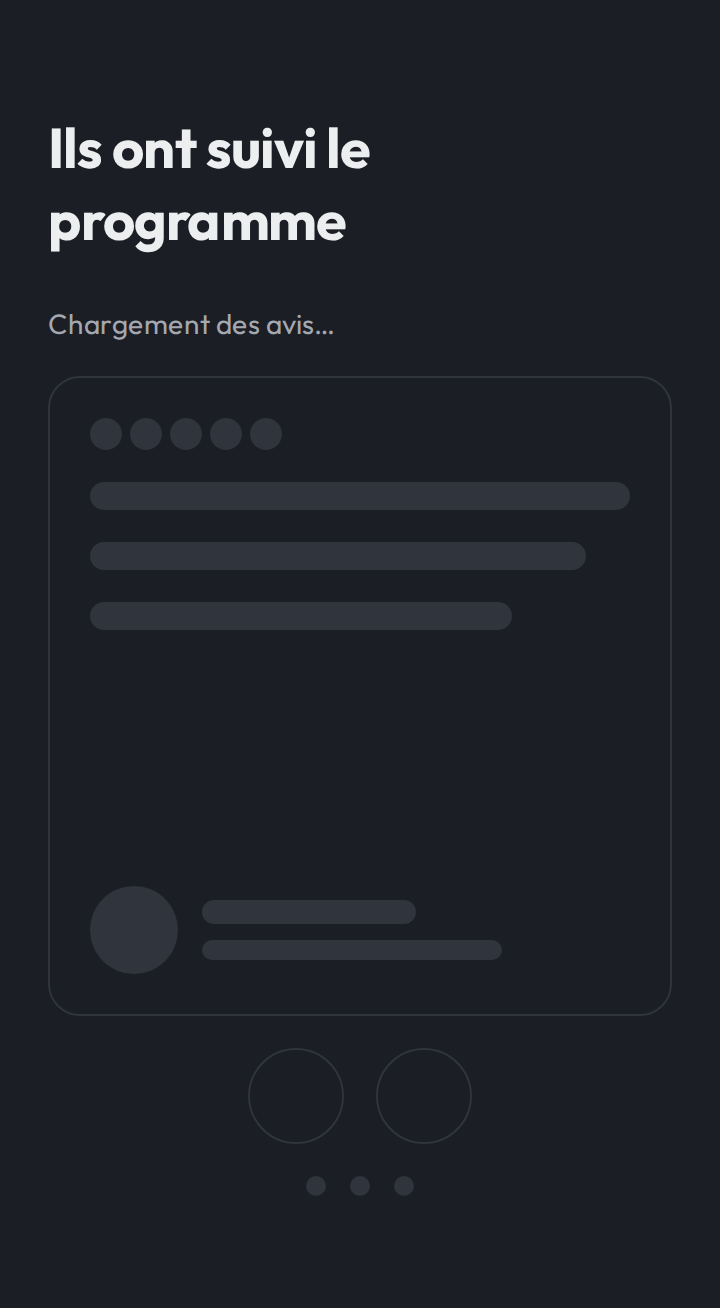
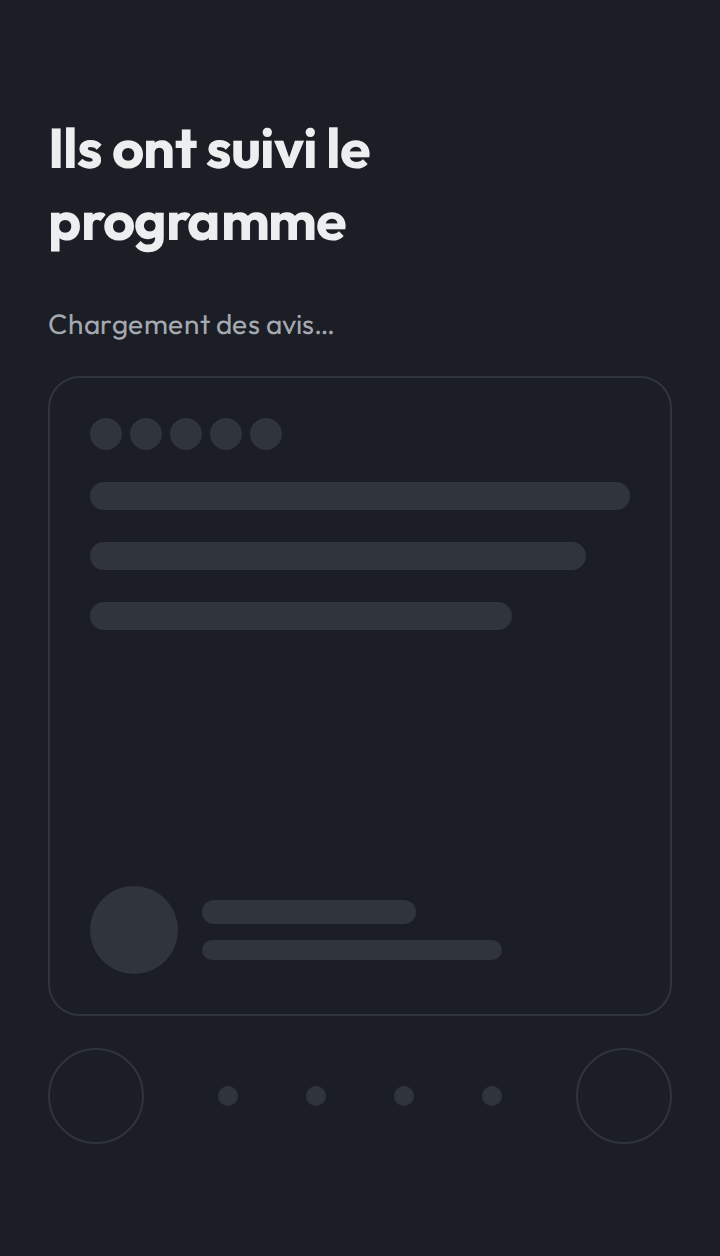
Lay the wall out in one column under 340 px, with Design's answers of October 2
Design's rule: under 340 px of widget width the wall takes one column, so that a name such as « Camille R. » keeps its line on a 360 px phone; m2 mobile, a 342 px widget, keeps two. The loading wall follows, and the loading carousel shows four points on a phone, three on a computer, as the updated m2. The charter records the rule; the five updated mockups are in.

Claude-Session: https://claude.ai/code/session_01KYdDJBMTzGGB5wwvL42r3E

diff --git a/widget/src/render.test.ts b/widget/src/render.test.ts
@@ -33,6 +33,7 @@ const variable = (root: HTMLElement, name: string) => root.style.getPropertyValu
 afterEach(() => {
   document.body.innerHTML = "";
   vi.restoreAllMocks();
+  vi.unstubAllGlobals();
 });
 
 describe("the wall", () => {
@@ -116,6 +117,39 @@ describe("the wall", () => {
   it("takes the desktop sizes from 1024 px wide", () => {
     expect(render(SAMPLE_PAYLOAD, { width: 1200 }).root.classList.contains("wide")).toBe(true);
     expect(render(SAMPLE_PAYLOAD, { width: 342 }).root.classList.contains("wide")).toBe(false);
+  });
+
+  it("takes one column under 340 px wide, and two from 340 px, as Design set on October 2", () => {
+    const columns = (width: number) => render(SAMPLE_PAYLOAD, { width }).root.classList.contains("one-column");
+
+    expect(columns(320)).toBe(true);
+    expect(columns(339)).toBe(true);
+    expect(columns(340)).toBe(false);
+    expect(columns(1200)).toBe(false);
+    expect(columns(0)).toBe(false);
+  });
+
+  it("follows a change of width: a phone turned sideways gets its two columns back", () => {
+    let width = 320;
+    const observers: Array<() => void> = [];
+    vi.stubGlobal(
+      "ResizeObserver",
+      class {
+        constructor(callback: () => void) {
+          observers.push(callback);
+        }
+        observe() {}
+        disconnect() {}
+      },
+    );
+    const host = createHost();
+    Object.defineProperty(host, "offsetWidth", { configurable: true, get: () => width });
+    const { root } = renderWidget(host.attachShadow({ mode: "open" }), SAMPLE_PAYLOAD, { host, linkColor: null });
+
+    expect(root.classList.contains("one-column")).toBe(true);
+    width = 640;
+    for (const observer of observers) observer();
+    expect(root.classList.contains("one-column")).toBe(false);
   });
 
   it("writes a testimonial as text, never as markup", () => {
@@ -350,6 +384,14 @@ describe("the loading state", () => {
     expect(root.querySelectorAll(".sk-card")).toHaveLength(4);
   });
 
+  it("holds the place of a one-column wall on a narrow page, like the wall that follows", () => {
+    const host = createHost({ width: 320 });
+
+    const { root } = renderLoading(host.attachShadow({ mode: "open" }), "wall", { host, linkColor: null });
+
+    expect(root.classList.contains("one-column")).toBe(true);
+  });
+
   it("holds the place of a carousel with its cards, its arrows and its points, as in maquette 2", () => {
     const wide = createHost({ width: 1200 });
     const narrow = createHost({ width: 360 });
@@ -362,6 +404,8 @@ describe("the loading state", () => {
     expect(narrowRoot.querySelectorAll(".sk-slide")).toHaveLength(1);
     expect(wideRoot.querySelectorAll(".sk-arrow")).toHaveLength(2);
     expect(wideRoot.querySelectorAll(".sk-dot")).toHaveLength(3);
+    expect(narrowRoot.querySelectorAll(".sk-arrow")).toHaveLength(2);
+    expect(narrowRoot.querySelectorAll(".sk-dot")).toHaveLength(4);
   });
 
   it("holds the place of a badge with a pill of three faces, its status only read aloud", () => {

diff --git a/widget/src/loading.ts b/widget/src/loading.ts
@@ -63,7 +63,10 @@ const carouselSkeletonCard = () =>
     h("div", { class: "sk-author sk-bottom" }, bar("sk-avatar"), h("div", { class: "sk-lines" }, bar("sk-name"), bar("sk-title"))),
   );
 
-/** The arrows and the points sit where the carousel will put them, so that nothing moves when it arrives. */
+/**
+ * The arrows and the points sit where the carousel will put them, so that nothing moves when it arrives: three points
+ * on a wide page, four on a phone, as in maquette 2.
+ */
 const carouselSkeleton = (isWide: boolean) =>
   h(
     "div",
@@ -71,7 +74,7 @@ const carouselSkeleton = (isWide: boolean) =>
     h("div", { class: "sk-track" }, h("div", { class: "sk-row" }, ...repeat(isWide ? 3 : 1, carouselSkeletonCard))),
     h("span", { class: "sk-arrow prev" }),
     h("span", { class: "sk-arrow next" }),
-    h("div", { class: "sk-dots" }, ...repeat(3, () => h("span", { class: "sk-dot" }))),
+    h("div", { class: "sk-dots" }, ...repeat(isWide ? 3 : 4, () => h("span", { class: "sk-dot" }))),
   );
 
 /** Maquette 2, « Badge · chargement »: the pill keeps its place next to the buy button. */

diff --git a/widget/src/styles.ts b/widget/src/styles.ts
@@ -118,6 +118,7 @@ export const WIDGET_CSS = `
   margin-bottom: calc(var(--gap) * -1);
 }
 .wide .grid { --gap: 24px; grid-template-columns: repeat(3, minmax(0, 1fr)); }
+.one-column .grid { grid-template-columns: minmax(0, 1fr); }
 .wall .avatar { width: 32px; height: 32px; font-size: 12px; }
 .wall .name, .wall .quote { font-size: 14px; line-height: 20px; }
 .wall .meta, .wall .date { font-size: 12px; line-height: 16px; }
@@ -234,6 +235,7 @@ a.badge:hover .badge-text { text-decoration: underline; text-underline-offset: 3
 .wide .summary-bar { width: 220px; height: 20px; margin-left: auto; }
 .sk-grid { display: grid; grid-template-columns: repeat(2, minmax(0, 1fr)); gap: 12px; align-items: start; }
 .wide .sk-grid { grid-template-columns: repeat(3, minmax(0, 1fr)); gap: 24px; }
+.one-column .sk-grid { grid-template-columns: minmax(0, 1fr); }
 .sk-column { display: flex; flex-direction: column; gap: 12px; }
 .wide .sk-column { gap: 24px; }
 .sk-card { display: flex; flex-direction: column; gap: 16px; padding: 16px; border: 1px solid var(--card-line); border-radius: 2px; background: var(--card-bg); }

diff --git a/widget/src/render.ts b/widget/src/render.ts
@@ -1,6 +1,6 @@
 import { renderBadge } from "./badge";
 import { renderCarousel } from "./carousel";
-import { type LayoutContext, WIDE_FROM } from "./context";
+import { type LayoutContext, applyWidthClasses } from "./context";
 import { h } from "./dom";
 import { renderLoadingState } from "./loading";
 import { loadLogotype } from "./logotype";
@@ -65,7 +65,7 @@ const renderInto = (
   for (const [name, value] of Object.entries(buildColorVariables(look.theme, look.accentColor, options.linkColor, page))) {
     root.style.setProperty(name, value);
   }
-  root.classList.toggle("wide", host.offsetWidth >= WIDE_FROM);
+  applyWidthClasses(root, host.offsetWidth);
 
   const layoutCallbacks: Array<() => void> = [];
   const destroyCallbacks: Array<() => void> = [];
@@ -94,7 +94,7 @@ const renderInto = (
     const observer = new ResizeObserver(() => {
       if (host.offsetWidth === width) return;
       width = host.offsetWidth;
-      root.classList.toggle("wide", width >= WIDE_FROM);
+      applyWidthClasses(root, width);
       layout();
     });
     observer.observe(host);

diff --git a/widget/src/context.ts b/widget/src/context.ts
@@ -5,6 +5,18 @@ import type { ReviewsDirectory } from "./reviews";
 /** At least this wide, a widget takes the desktop sizes of the charter: three columns, three cards. */
 export const WIDE_FROM = 1024;
 
+/**
+ * Narrower than this, the wall takes one column: two would leave each card too little room for a name such as
+ * « Camille R. » (Design, October 2). Like WIDE_FROM, the width of the widget itself, not of the screen.
+ */
+export const ONE_COLUMN_BELOW = 340;
+
+/** « wide » and « one-column » on the root, from the widget's width. Unknown before layout (0), it stays two columns. */
+export const applyWidthClasses = (root: HTMLElement, width: number): void => {
+  root.classList.toggle("wide", width >= WIDE_FROM);
+  root.classList.toggle("one-column", width > 0 && width < ONE_COLUMN_BELOW);
+};
+
 export type LayoutContext = {
   root: HTMLElement;
   host: HTMLElement;

diff --git a/docs-internes/charte.md b/docs-internes/charte.md
@@ -122,7 +122,7 @@ Aucune autre valeur de marge, de padding ou d'écart. Seules exceptions : les ch
 - **Neutres, thème sombre** : carte #22262D, bordure #2F343D, texte #EDEEF0, secondaire #A4A8B1, avatar #2F343D, étoile vide #7E8390.
 - **Thème auto** : choisi selon la luminance du fond de l'élément parent (luminance < 0,5 → sombre). Réglages possibles : Clair, Sombre, Auto (défaut).
 - **Rayon des cartes** : réglable, radius-s (défaut) ou radius-l.
-- **Mise en page** : mur en colonnes type maçonnerie, 3 colonnes au-delà de 1024 px de large, 2 en dessous, écart 24 (12 sur mobile). Carrousel : 3 cartes visibles au-delà de 1024 px, 1 en dessous, flèches 48 cerclées et points dans des zones de 44 × 44.
+- **Mise en page** : mur en colonnes type maçonnerie, 3 colonnes au-delà de 1024 px de large, 2 en dessous, 1 sous 340 px (règle de Design du 2 octobre 2026). Ces largeurs sont celles du widget lui-même, pas de l'écran : sur un téléphone de 390 px avec 24 px de marge, le widget fait 342 px et garde deux colonnes ; sur un téléphone de 360 px avec 20 px de marge, il fait 320 px et passe à une colonne. Écart 24 (12 sur mobile). Carrousel : 3 cartes visibles au-delà de 1024 px, 1 en dessous, flèches 48 cerclées et points dans des zones de 44 × 44.
 - **Badge compact** : pilule radius-full, bordure 1px, padding 4 16 4 4, 3 avatars de 32 superposés, étoiles 14, « 4,8/5 · 47 avis » en 16 600. À placer près du bouton d'achat. Lien vers le mur, aria-label « Note moyenne 4,8 sur 5, 47 avis ».
 - **Mention « Propulsé par PULSACITY »** : sous chaque widget, « Propulsé par » en 12/16 couleur secondaire, suivi du logotype Newsreader 600 14 px en couleur du texte (#EDEEF0 sur sombre). Toujours visible sur les plans Gratuit et Essentiel ; retirable uniquement sur le plan Pro.
 - **Chargement** : espace réservé de hauteur fixe (600 px desktop, 560 px mobile), blocs gris aux proportions des cartes (Papier en clair, #2F343D en sombre), texte « Chargement des avis… » en role="status", aria-busy="true". Pulsation d'opacité 1 → 0,6 en 1,2 s, désactivée si prefers-reduced-motion.
